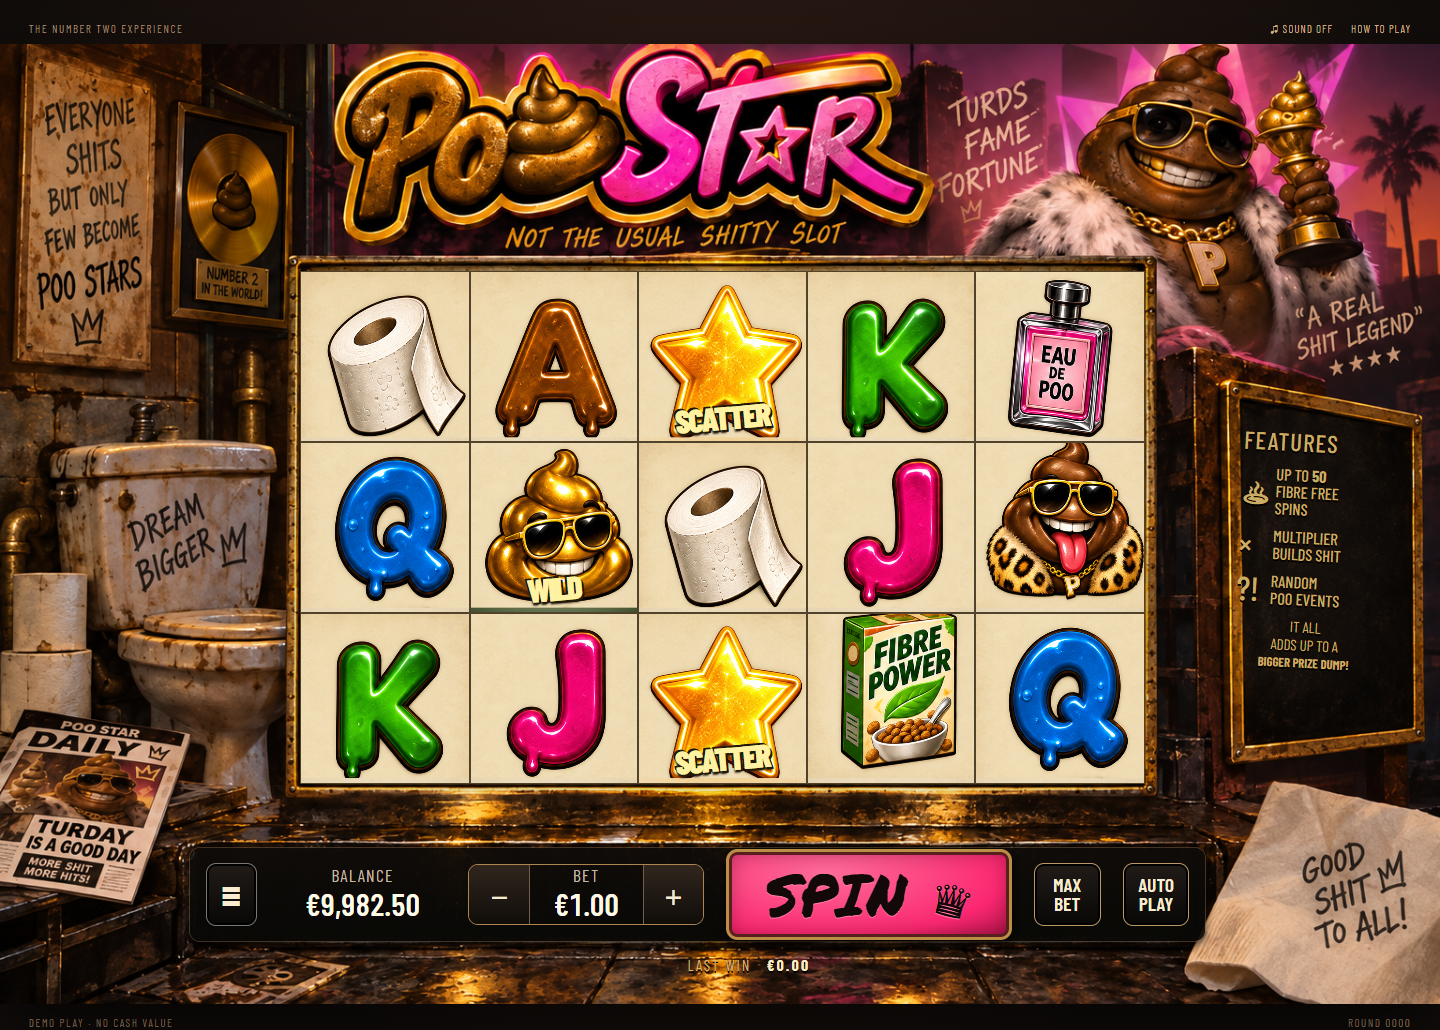
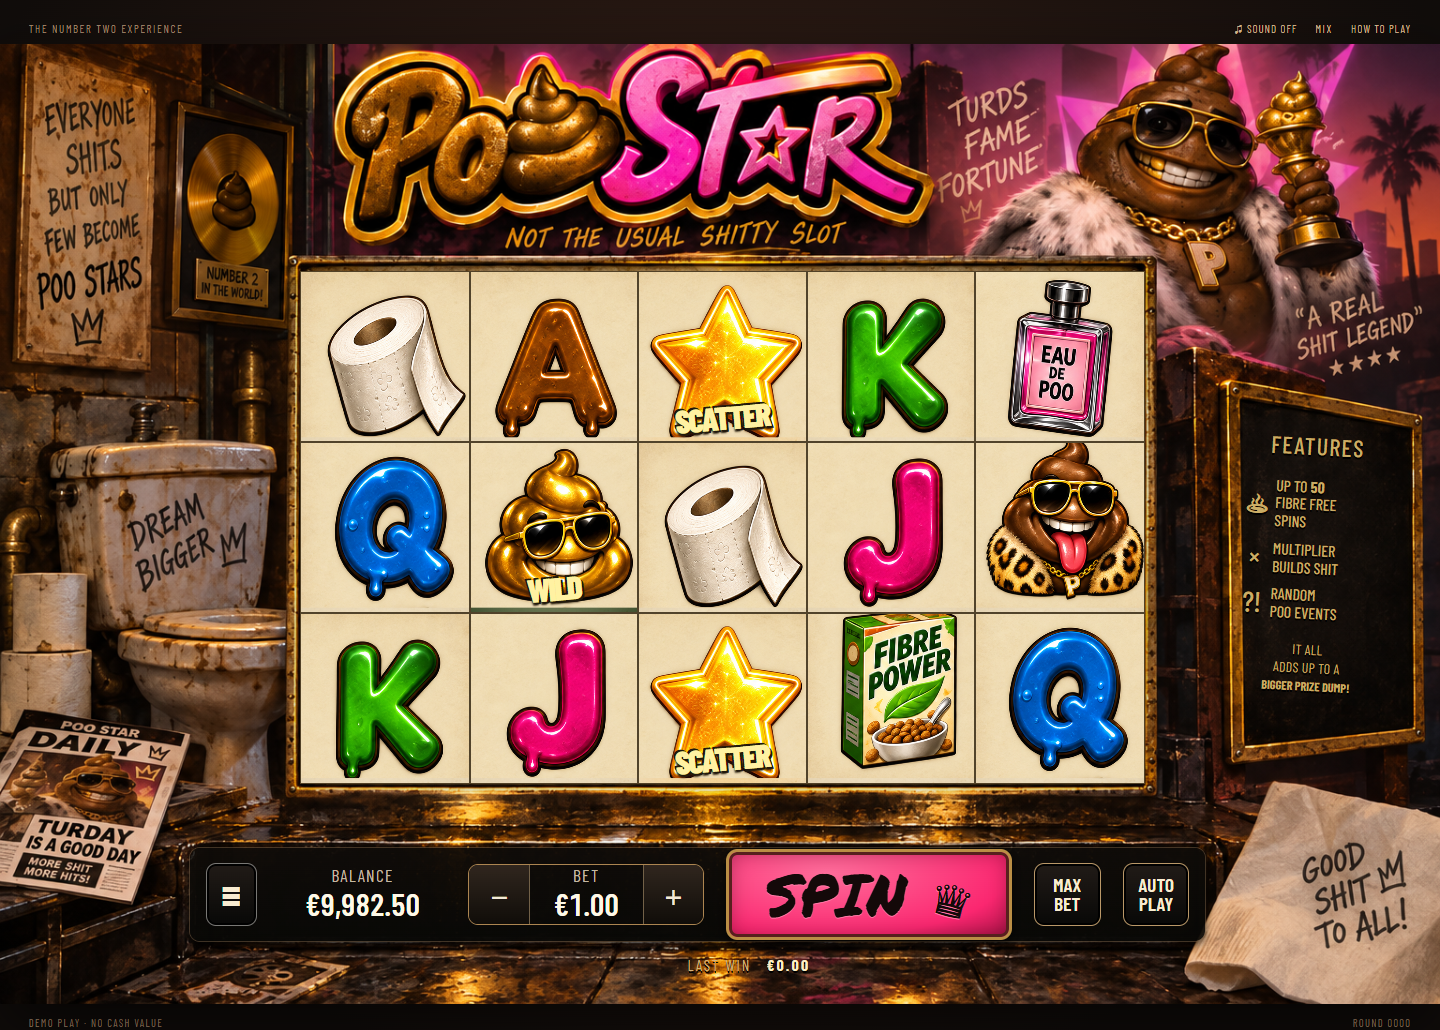
Balance effects mix, add poop win bursts and fix chalkboard and footer

diff --git a/src/sound.ts b/src/sound.ts
@@ -3,19 +3,19 @@ export type Cue='tap'|'roll'|'stop'|'scatter'|'wild'|'win'|'bigwin'|'bonus'|'los
 
 /** Licensed C-Funk recording plus original comic game effects. */
 export class Sound {
- enabled=false;musicLevel=.38;effectLevel=.7;
+ enabled=false;musicLevel=.2;effectLevel=1;
  private context?:AudioContext;private music?:GainNode;private fx?:GainNode;
  private sources=new Set<AudioScheduledSourceNode>();private noise?:AudioBuffer;
  private track?:HTMLAudioElement;
  private timer?:ReturnType<typeof setInterval>;private release?:ReturnType<typeof setTimeout>;
  private step=0;private duckUntil=0;private duckDepth=1;
- constructor(){try{const saved=JSON.parse(localStorage.getItem('poo-star-audio')||'null');if(saved){this.musicLevel=Math.max(0,Math.min(1,saved.music??.38));this.effectLevel=Math.max(0,Math.min(1,saved.effects??.7));}}catch{}}
+ constructor(){try{const saved=JSON.parse(localStorage.getItem('poo-star-audio')||'null');if(saved){this.musicLevel=Math.max(0,Math.min(1,saved.music??.2));this.effectLevel=Math.max(0,Math.min(1,saved.effects??1));if(saved.mixVersion!==2){this.musicLevel=Math.min(.2,this.musicLevel);if(this.effectLevel>0)this.effectLevel=1;}}}catch{}}
  private prepare(){if(this.context)return;const c=this.context=new AudioContext();const limiter=c.createDynamicsCompressor();limiter.threshold.value=-14;limiter.knee.value=12;limiter.ratio.value=5;limiter.attack.value=.006;limiter.release.value=.18;limiter.connect(c.destination);
  this.music=c.createGain();this.fx=c.createGain();this.music.gain.value=this.musicLevel;this.fx.gain.value=this.effectLevel;this.music.connect(limiter);this.fx.connect(limiter);
- this.track=new Audio(musicUrl);this.track.loop=true;this.track.preload="auto";c.createMediaElementSource(this.track).connect(this.music);
+ this.track=new Audio(musicUrl);this.track.loop=true;this.track.preload="auto";const trim=c.createGain();trim.gain.value=.45;c.createMediaElementSource(this.track).connect(trim);trim.connect(this.music);
  this.noise=c.createBuffer(1,c.sampleRate*2,c.sampleRate);const data=this.noise.getChannelData(0);let seed=7341;for(let i=0;i<data.length;i++){seed=(Math.imul(seed,1664525)+1013904223)>>>0;data[i]=seed/2147483648-1;}}
  toggle(){this.enabled=!this.enabled;if(this.enabled){this.prepare();this.resume();this.play('tap');}else this.stop();return this.enabled;}
- levels(music:number,effects:number){this.musicLevel=Math.max(0,Math.min(1,music));this.effectLevel=Math.max(0,Math.min(1,effects));if(this.context){this.music!.gain.setTargetAtTime(this.musicLevel*this.duckDepth,this.context.currentTime,.03);this.fx!.gain.setTargetAtTime(this.effectLevel,this.context.currentTime,.03);}try{localStorage.setItem('poo-star-audio',JSON.stringify({music:this.musicLevel,effects:this.effectLevel}));}catch{}}
+ levels(music:number,effects:number){this.musicLevel=Math.max(0,Math.min(1,music));this.effectLevel=Math.max(0,Math.min(1,effects));if(this.context){this.music!.gain.setTargetAtTime(this.musicLevel*this.duckDepth,this.context.currentTime,.03);this.fx!.gain.setTargetAtTime(this.effectLevel,this.context.currentTime,.03);}try{localStorage.setItem('poo-star-audio',JSON.stringify({mixVersion:2,music:this.musicLevel,effects:this.effectLevel}));}catch{}}
  stop(){this.track?.pause();clearInterval(this.timer);this.timer=undefined;clearTimeout(this.release);this.duckUntil=0;this.duckDepth=1;for(const s of this.sources){try{s.stop();}catch{}}this.sources.clear();if(this.context){this.music!.gain.cancelScheduledValues(this.context.currentTime);this.music!.gain.value=this.musicLevel;void this.context.suspend();}}
  resume(){if(!this.enabled||document.hidden)return;this.prepare();void this.context!.resume();void this.track!.play().catch(()=>{ /* A later user gesture can retry browser-blocked playback. */ });}
  private keep(source:AudioScheduledSourceNode,nodes:AudioNode[]){this.sources.add(source);source.onended=()=>{this.sources.delete(source);source.disconnect();nodes.forEach(n=>n.disconnect());};}
@@ -32,21 +32,21 @@ export class Sound {
   o.connect(filter);filter.connect(g);g.connect(bus);o.start(t);o.stop(t+d+.025);this.keep(o,[filter,g]);
  }
  private poop(t:number,variant:number){const b=this.fx!;
-  if(variant%3===0){this.squelch(92,t,.48,.085,b,true);this.hiss(t,.28,.06,360,b,130);}
-  else if(variant%3===1){[0,.13,.31].forEach((offset,i)=>{this.note(420-i*60,t+offset,.16,.15,'sine',b,65);this.hiss(t+offset+.04,.11,.05,800,b,250);});}
-  else {this.squelch(150,t,.24,.07,b,true);this.squelch(85,t+.27,.38,.09,b,true);}
+  if(variant%3===0){this.squelch(92,t,.65,.19,b,true);this.hiss(t,.36,.14,360,b,130);}
+  else if(variant%3===1){[0,.13,.31].forEach((offset,i)=>{this.note(420-i*60,t+offset,.2,.26,'sine',b,55);this.hiss(t+offset+.04,.2,.16,800,b,250);});}
+  else {this.squelch(150,t,.32,.17,b,true);this.squelch(85,t+.27,.48,.2,b,true);}
  }
  private brass(f:number,t:number,d:number,level:number,bus:GainNode){this.note(f,t,d,level,'sawtooth',bus);this.note(f*1.004,t,d,level*.4,'triangle',bus);this.note(f*2,t,d*.8,level*.14,'sine',bus);}
  private duck(seconds:number,depth:number){const c=this.context!;this.duckDepth=Math.min(this.duckUntil>c.currentTime?this.duckDepth:1,depth);this.duckUntil=Math.max(this.duckUntil,c.currentTime+seconds);clearTimeout(this.release);this.music!.gain.cancelScheduledValues(c.currentTime);this.music!.gain.setTargetAtTime(this.musicLevel*this.duckDepth,c.currentTime,.035);this.release=setTimeout(()=>{this.duckDepth=1;if(this.enabled)this.music!.gain.setTargetAtTime(this.musicLevel,c.currentTime,.3);},(this.duckUntil-c.currentTime)*1000);}
  play(kind:Cue,step=0){if(!this.enabled||document.hidden)return;this.prepare();if(this.context!.state==='suspended')this.resume();const t=this.context!.currentTime+.012,b=this.fx!;this.step++;
  if(kind==='tap'){this.note(730,t,.045,.065,'sine',b);this.hiss(t,.025,.04,2400,b);}
- if(kind==='roll'){this.duck(2.2,.7);this.poop(t,Math.floor(this.step/16));this.note(90,t,.16,.13,'triangle',b,45);this.hiss(t+.07,1.05,.13,420,b,2100);for(let i=0;i<8;i++)this.hiss(t+.1+i*.075,.025,.065,1500+i*140,b);}
+ if(kind==='roll'){this.duck(2.2,.35);this.poop(t,Math.floor(this.step/16));this.note(90,t,.16,.13,'triangle',b,45);this.hiss(t+.07,1.05,.13,420,b,2100);for(let i=0;i<8;i++)this.hiss(t+.1+i*.075,.025,.065,1500+i*140,b);}
  if(kind==='stop'){this.note(460+step*65,t,.075,.09,'triangle',b);this.note(940+step*91,t,.12,.026,'sine',b);this.hiss(t,.04,.06,900,b);}
  if(kind==='scatter'){this.duck(.45,.65);[784,1175,1568].forEach((f,i)=>this.note(f,t+i*.06,.25,.055,'sine',b));}
  if(kind==='wild'){this.duck(1,.4);this.poop(t,2);this.note(110,t,.23,.12,'sawtooth',b,220);[261.63,329.63,392].forEach((f,i)=>this.brass(f,t+.15+i*.1,.23,.05,b));}
  if(kind==='lose'){this.duck(.8,.7);this.poop(t,this.step%3);}
  if(kind==='win'||kind==='bigwin'||kind==='bonus'){
- const big=kind!=='win';this.duck(big?3:1.3,big?.24:.42);
+ const big=kind!=='win';this.poop(t+.06,1);if(big)this.poop(t+.5,2);this.duck(big?3:1.3,big?.24:.42);
  const notes=kind==='bonus'?[261.63,329.63,392,523.25,659.25,783.99,1046.5]:big?[261.63,392,523.25,659.25,783.99]:[523.25,659.25,783.99,1046.5];
  notes.forEach((f,i)=>{this.brass(f,t+i*.11,big?.42:.19,big?.042:.027,b);this.note(f*2,t+i*.11,.38,.027,'sine',b);});
  for(let i=0;i<(big?12:5);i++)this.note(1800+(i%4)*230,t+.15+i*.07,.1,.019,'sine',b);

diff --git a/src/style.css b/src/style.css
@@ -20,3 +20,20 @@
 .feature-board small{font-size:1.04cqw;line-height:1.18;letter-spacing:0}
 .feature-board small strong{font-size:.88cqw}
 .audio-settings a{color:#e6bd74}
+
+.quick-mixer{position:relative;z-index:20}.quick-mixer summary{cursor:pointer;color:#d7bd96;padding:5px 0;list-style:none}.quick-mixer>div{position:absolute;right:-55px;top:28px;width:230px;padding:16px;background:#21160ff5;border:1px solid #b68c45;border-radius:8px;box-shadow:0 8px 24px #000b}.quick-mixer label{display:flex;flex-direction:column;gap:6px;margin-bottom:14px;font-size:13px}.quick-mixer input{width:100%;accent-color:#f63e82}.topline .quick-mixer button{padding:8px;border:1px solid #b68c45;border-radius:4px;width:100%}
+.poo-burst{position:absolute;inset:23.65% 20.5% 23% 20.85%;z-index:4;pointer-events:none;overflow:hidden}.poo-flight{position:absolute;left:var(--x);top:var(--y);width:6cqw;height:6cqw;animation:poo-clean 2.6s var(--delay) both}.poo-piece{display:block;font-size:5cqw;line-height:1;filter:drop-shadow(0 3px 2px #2c110988);animation:poo-toss .6s var(--delay) both}.poo-splat{position:absolute;inset:20%;background:radial-gradient(ellipse at 38% 25%,#bf7f30,#704019 58%,#42220e);border-radius:42% 58% 35% 65%/55% 35% 65% 45%;box-shadow:-1.3cqw -.6cqw 0 -.6cqw #895321,1.4cqw .7cqw 0 -.55cqw #704019,.3cqw 1.7cqw 0 -.7cqw #895321,-1.1cqw 1.3cqw 0 -.7cqw #704019;animation:poo-impact 2s calc(var(--delay) + .45s) both}
+@keyframes poo-toss{0%{opacity:0;transform:translate(-7cqw,20cqw) scale(.35) rotate(-100deg)}25%{opacity:1}75%{opacity:1;transform:translateY(-1cqw) scale(1.2) rotate(var(--turn))}100%{opacity:0;transform:scale(.4,1.3)}}@keyframes poo-impact{0%{opacity:0;transform:scale(.1)}12%{opacity:1;transform:scale(1.5,.7)}24%{transform:scale(1)}80%{opacity:.9;transform:translateY(.4cqw)}100%{opacity:0;transform:translateY(1.4cqw)}}@keyframes poo-clean{0%,90%{opacity:1}100%{opacity:0}}
+.reduced .poo-piece{display:none}.reduced .poo-splat{opacity:.7}
+
+/* Lay out the chalkboard as a sign, with a consistent icon column. */
+.feature-board{left:85.85%;top:40%;width:10.5%;height:29%;display:flex;flex-direction:column;justify-content:space-between;padding:.35cqw .4cqw .8cqw;overflow:hidden}
+.feature-board h2{text-align:center;font-size:1.65cqw;line-height:1.1;margin:0 0 .6cqw;letter-spacing:.06em}
+.feature-board p{display:grid;grid-template-columns:1.65cqw 1fr;align-items:center;gap:.45cqw;font-size:1.09cqw;line-height:1.13;margin:0}
+.feature-board .feature-icon{width:auto;text-align:center;font-size:2cqw;line-height:1}
+.feature-board small{text-align:center;font-size:.96cqw;line-height:1.3;letter-spacing:.025em;margin-top:.65cqw}
+.feature-board small strong{font-size:.85cqw;white-space:nowrap;letter-spacing:0}
+
+footer{display:grid;grid-template-columns:minmax(0,1fr) auto;align-items:center;gap:12px;width:100%;min-height:32px;padding:10px 2% 4px;font-size:clamp(8px,.72vw,11px);letter-spacing:clamp(.25px,.1vw,1.6px);line-height:1.4}
+footer>span{min-width:0;white-space:nowrap}footer #round{text-align:right;font-variant-numeric:tabular-nums}
+@media(max-width:760px){.stage{margin-bottom:91px}footer{padding:10px 3% 6px;min-height:32px;gap:8px}.topline>div{gap:9px}.quick-mixer>div{right:-62px}}
